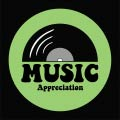
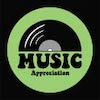
Improved image quality

diff --git a/styles.css b/styles.css
@@ -25,16 +25,12 @@ p {
   color: #1C1C1C;
 }
 
-/*noinspection CssInvalidPropertyValue*/
 img {
-  width: 100px;
-  height: 100px;
   border-radius: 8px;
   float: left;
   margin-right: 10px;
   margin-bottom: 10px;
   flex-shrink: 0;
-  image-rendering: -webkit-optimize-contrast;
 }
 
 i {
